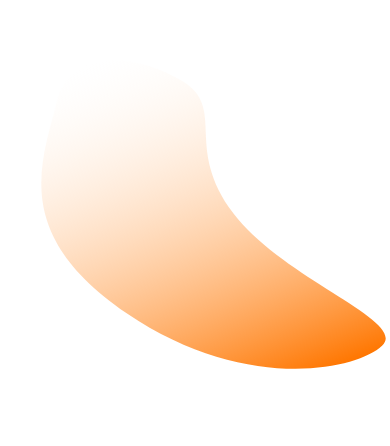
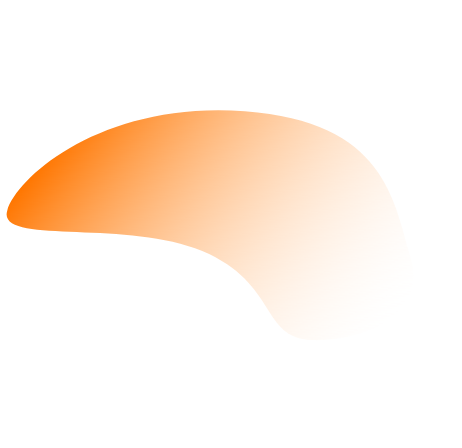
changed index.html

diff --git a/public/css/page1.css b/public/css/page1.css
@@ -12,7 +12,7 @@
   height: 100%;
   float: left;
   padding: 50px;
-  background-color: #0c0c0c; }
+  background-color: black }
 
 .heading {
   color: #ddd;
@@ -22,12 +22,15 @@
   margin-top: 10vh; }
   .heading span {
     color: lawngreen; }
-a{
-  text-decoration: none;
-  color: #777;
+#zxy{
+  background: linear-gradient(28deg, rgba(131,58,180,1) 0%, rgba(253,29,29,1) 50%, rgba(252,176,69,1) 100%);
+	-webkit-background-clip: text;
+	-webkit-text-fill-color: transparent;
 }
 
 .btn {
+  text-decoration: none;
+  font-weight: bold;
   position: relative;
   font-size: 40px;
   width: 20vw;
@@ -36,12 +39,13 @@ a{
   display: flex;
   justify-content: center;
   align-items: center;
-  background: #111;
+  background: white;
+  border-radius: 50px;
   box-shadow: 0 0 10px #000;
   cursor: pointer;
   z-index: 1;
   transition: all 0.3s; }
-  .btn::after {
+  /*.btn::after {
     z-index: -1;
     content: "";
     position: absolute;
@@ -55,6 +59,7 @@ a{
     color: lawngreen; }
     .btn:hover::after {
       height: 100%; }
+*/
 
 .side2 {
   width: 70%;
@@ -62,7 +67,8 @@ a{
   position: absolute;
   top: 0;
   right: 0;
-  background-color: #111;
+  background: rgb(131,58,180);
+  background: linear-gradient(28deg, rgba(131,58,180,1) 0%, rgba(253,29,29,1) 50%, rgba(252,176,69,1) 100%);
   -webkit-clip-path: polygon(20% 0%, 100% 0, 100% 100%, 0% 100%);
   clip-path: polygon(20% 0%, 100% 0, 100% 100%, 0% 100%); }
 

diff --git a/public/index.html b/public/index.html
@@ -3,7 +3,7 @@
 
 <head>
   <meta charset="UTF-8">
-  <title>EXPRO</title>
+  <title>FITIFY</title>
 
   <link href="https://fonts.googleapis.com/css?family=Quicksand|Lilita+One|Montserrat" rel=" stylesheet">
   <!-- <link rel="stylesheet" href="scss/styles.scss">
@@ -16,9 +16,9 @@
 <body>
   <div class="page1">
     <div class="side1">
-      <div class="heading"><span>EX</span>PRO</span></div>
-      <a href="/camera" class="btn">Get Started</a>
-      <a href="/ppt" class="btn" style="font-size:35px">Presentation</a>
+      <div class="heading">FITIFY</div>
+      <a href="camera.html" class="btn"><span id="zxy">Exercise 1</span></a>
+      <a href="camera2.html" class="btn"><span id="zxy">Exercise 2</span></a>
     </div>
     <div class="side2">
       <div id="slide-show" class="activate steps">

diff --git a/public/styles1.css b/public/styles1.css
@@ -5,12 +5,12 @@ html{
     font-family: -apple-system, BlinkMacSystemFont, 'Segoe UI', Roboto, Oxygen, Ubuntu, Cantarell, 'Open Sans', 'Helvetica Neue', sans-serif;
 }
 .logo{
-    text-align: center;
-    font-size: 50px;
-    font-weight: bold;
+    font-size: 40px;
+    font-weight: 700;
     margin: 0 0 0 0;
 }
 .logo h1{
+    margin-left: 100px;
     margin-top: 0;
     padding-top: 10px;
 }
@@ -73,11 +73,12 @@ h2{
     z-index: -2;
 }
 #img3{
-    top: 70%;
-    left: 30%;
+    top: 50%;
+    left: 20%;
 }
 #img4{
     top: 10%;
+    left: 27%;
 }
 #img5{
     top: 30%;

diff --git a/public/index1.html b/public/index1.html
@@ -21,7 +21,7 @@
             <img id="img3" src="assets/Path 6.png">
             <img id="img4" src="assets/Path 7.png">
             <img id="img5" src="assets/Path 8.png">
-            <div class="gs"><a href="camera.html">Get Started</a></div>
+            <div class="gs"><a href="index.html">Get Started</a></div>
         </div>
         <div class="illu">
             <img id="illus1" src="assets/Path 1.png">

diff --git a/public/css/styles.css b/public/css/styles.css
@@ -2,7 +2,7 @@ body {
   width: 100vw;
   height: 100vh;
   margin: 0;
-  background-color: #090909;
+  background-color: black;
   color: #ccc;
   font-family: 'Montserrat', sans-serif; }
 
